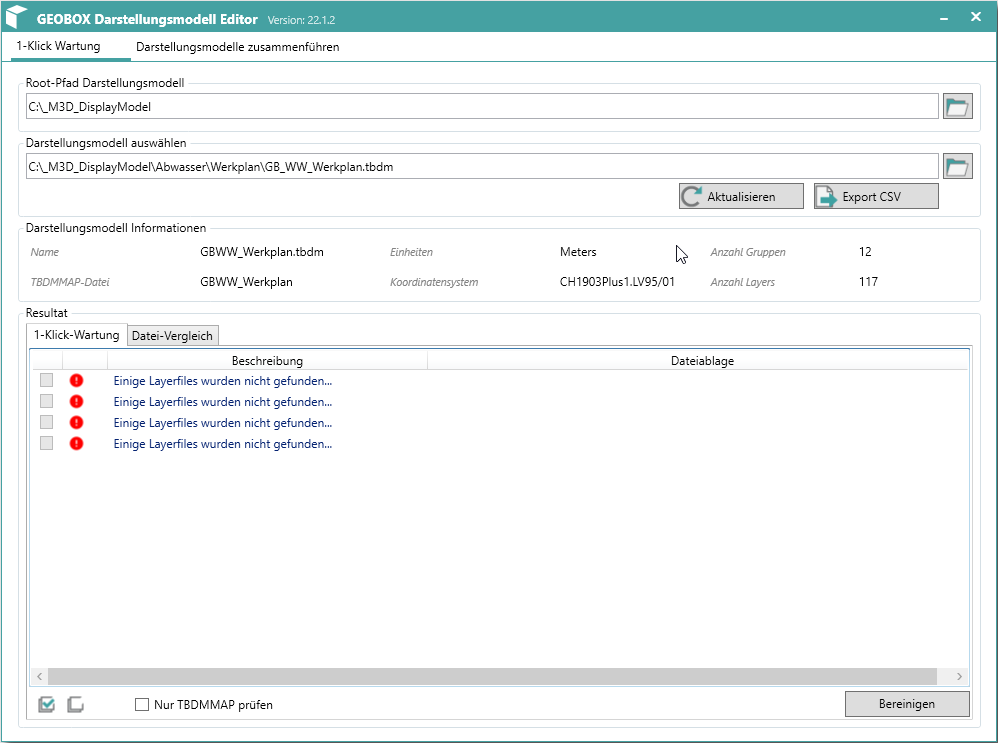
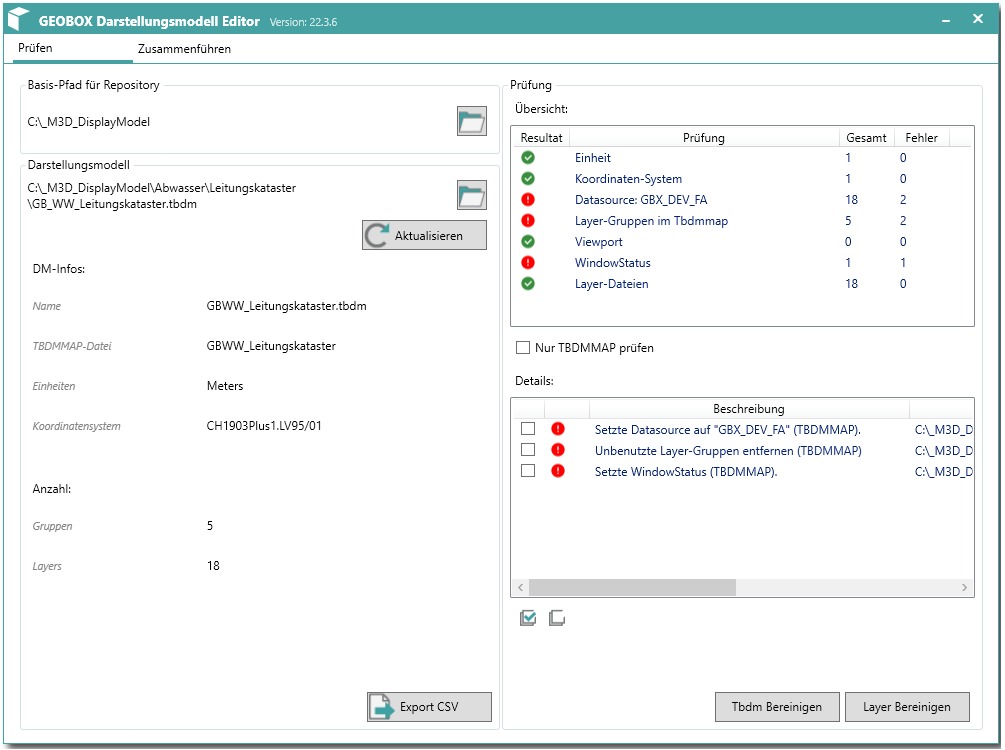
22.3 - Update pictures, Add EmptyStringToHyphen Converter, Fix Result from checks

diff --git a/GEOBOX.OSC.DisplayModelEditor/Views/OneClickView.xaml b/GEOBOX.OSC.DisplayModelEditor/Views/OneClickView.xaml
@@ -8,6 +8,7 @@
              mc:Ignorable="d" Background="White" Height="655" Width="965">
     <UserControl.Resources>
         <converters:BoolToImage x:Key="BoolToImage" />
+        <converters:EmptyStringToHyphen x:Key="EmptyStringToHyphen" />
     </UserControl.Resources>
     <Grid x:Name="ContentGrid">
         <Grid.ColumnDefinitions>
@@ -131,19 +132,19 @@
                             </Grid.RowDefinitions>
 
                             <Label x:Name="TbdmFileName" Grid.Row="0"
-                                   Content="{Binding TbdmFileName}" 
+                                   Content="{Binding TbdmFileName, Converter={StaticResource EmptyStringToHyphen}}" 
                                    VerticalContentAlignment="Center"/>
 
                             <Label x:Name="TbdmmapFileName" Grid.Row="1"
-                                   Content="{Binding TbdmmapFileName}"  
+                                   Content="{Binding TbdmmapFileName, Converter={StaticResource EmptyStringToHyphen}}"  
                                    VerticalContentAlignment="Center" />
 
                             <Label x:Name="UnitsValueLabel" Grid.Row="2"
-                                   Content="{Binding UnitsValue}" 
+                                   Content="{Binding UnitsValue, Converter={StaticResource EmptyStringToHyphen}}" 
                                    VerticalContentAlignment="Center"/>
 
                             <Label x:Name="CoordSysLabel" Grid.Row="3"
-                                   Content="{Binding CoordSys}"  
+                                   Content="{Binding CoordSys, Converter={StaticResource EmptyStringToHyphen}}"  
                                    VerticalContentAlignment="Center" />
 
                         </Grid>
@@ -181,11 +182,11 @@
                             </Grid.RowDefinitions>
 
                             <Label x:Name="CountGroupLabel" Grid.Row="0"
-                                   Content="{Binding CountGroup}" 
+                                   Content="{Binding CountGroup, Converter={StaticResource EmptyStringToHyphen}}" 
                                    VerticalContentAlignment="Center"/>
 
                             <Label x:Name="CountLayerLabel" Grid.Row="1"
-                                   Content="{Binding CountLayer}"
+                                   Content="{Binding CountLayer, Converter={StaticResource EmptyStringToHyphen}}"
                                    VerticalContentAlignment="Center"/>
                         </Grid>
                     </Grid>

diff --git a/GEOBOX.OSC.DisplayModelEditor/IO/TbdmmapReader.cs b/GEOBOX.OSC.DisplayModelEditor/IO/TbdmmapReader.cs
@@ -91,6 +91,7 @@ namespace GEOBOX.OSC.DisplayModelEditor.IO
         {
             var list = new List<TbdmmapItem>();
             int taskCounter = 0;
+            List<string> taskKeys = new List<string>();
 
             foreach (XmlNode xmlNode in xmlNodesMapLayers)
             {
@@ -117,6 +118,7 @@ namespace GEOBOX.OSC.DisplayModelEditor.IO
                     if (resourceCheck != null)
                     {
                         mapLayer.AddTask(resourceCheck);
+                        taskKeys.Add(resourceCheck.TaskKey);
                         taskCounter++;
                     }
                 }
@@ -128,11 +130,11 @@ namespace GEOBOX.OSC.DisplayModelEditor.IO
 
             if (taskCounter > 0)
             {
-                executedChecks?.Add(GetNewCheck($"Datasource: {Properties.Settings.Default.LayerDataSourceName}", false, list.Count, taskCounter));
+                executedChecks?.Add(GetNewCheck($"Datasource: {Properties.Settings.Default.LayerDataSourceName}", false, list.Count, taskCounter, taskKeys));
             }
             else
             {
-                executedChecks?.Add(GetNewCheck($"Datasource: {Properties.Settings.Default.LayerDataSourceName}", true, list.Count, taskCounter));
+                executedChecks?.Add(GetNewCheck($"Datasource: {Properties.Settings.Default.LayerDataSourceName}", true, list.Count, taskCounter, taskKeys));
             }
 
             return list;
@@ -159,7 +161,7 @@ namespace GEOBOX.OSC.DisplayModelEditor.IO
                 var layer = mapLayers.Find(l => l.Group.Equals(group.Name));
                 if(childGroup is null && layer is null)
                 {
-                    var task = new Task(filePath, string.Format(Resources.RemoveUnusedLayerGroup, group.Name), TaskType.RemoveUnusedGroup, TaskImage.ToDo);
+                    var task = new Task(filePath, Resources.RemoveUnusedLayerGroups, TaskType.RemoveUnusedGroup, TaskImage.ToDo);
                     mapLayerHandler.AddTask(task);
                     taskKeys.Add(task.TaskKey);
                     taskCounter++;
@@ -274,7 +276,7 @@ namespace GEOBOX.OSC.DisplayModelEditor.IO
                     }
                 }
 
-                isSaved = SaveTbdmapFile(filePath, xDoc);
+                isSaved = SaveTbdmmapFile(filePath, xDoc);
 
                 SetTaskStatus(isSaved, task);
                 xDoc = null;
@@ -306,7 +308,7 @@ namespace GEOBOX.OSC.DisplayModelEditor.IO
                     parent.RemoveChild(child);
                 }
 
-                isSaved = SaveTbdmapFile(filePath, doc);
+                isSaved = SaveTbdmmapFile(filePath, doc);
 
                 SetTaskStatus(isSaved, task);
                 doc = null;
@@ -336,7 +338,7 @@ namespace GEOBOX.OSC.DisplayModelEditor.IO
 
                 var result = new ResetDataSourceCorrectionTask().Apply(new CorrectionTaskContext(ReadTbdmmapFile(filePath))).DocumentAfterCorrection;
 
-                isSaved = SaveTbdmapFile(filePath, result);
+                isSaved = SaveTbdmmapFile(filePath, result);
 
                 SetTaskStatus(isSaved, task);
                 //doc = null;
@@ -369,7 +371,7 @@ namespace GEOBOX.OSC.DisplayModelEditor.IO
             }
         }
 
-        private bool SaveTbdmapFile(string filePath, XmlDocument xDoc)
+        private bool SaveTbdmmapFile(string filePath, XmlDocument xDoc)
         {
             try
             {
@@ -402,28 +404,41 @@ namespace GEOBOX.OSC.DisplayModelEditor.IO
                 foreach (var displayModelMapNode in displayModelMapNodes)
                 {
                     XmlNode parent = (XmlNode)displayModelMapNode;
-                    XmlNodeList childs = parent?.SelectNodes("./MapLayerGroup");
+                    XmlNodeList mapLayerGroups = parent?.SelectNodes("./MapLayerGroup");
                     
-                    foreach(var child in childs)
+                    foreach(var mapLayerGroup in mapLayerGroups)
                     {
-                        XmlNode childToRemove = null;
+                        XmlNode mapLayerGroupNode = (XmlNode)mapLayerGroup;
+                        bool childHasChildren = false;
+                        XmlNode mapLayerGroupToRemove = null;
+                        string name = mapLayerGroupNode["Name"].InnerText;
 
-                        XmlNode node = (XmlNode)child;
-                        string name = node["Name"].InnerText;
-
-                        if (task.Text.Contains(name))
+                        foreach (var child in mapLayerGroups)
                         {
-                            childToRemove = node;
+                            if (child.Equals(mapLayerGroup))
+                            {
+                                continue;
+                            }
+
+                            XmlNode childNode = (XmlNode)child;
+                            mapLayerGroupToRemove = mapLayerGroupNode;
+
+                            if (childNode["Name"].InnerText.Contains(name))
+                            {
+                                childHasChildren = true;
+                                mapLayerGroupToRemove = null;
+                                break;
+                            }
                         }
 
-                        if(childToRemove != null)
+                        if (!childHasChildren && mapLayerGroupToRemove != null)
                         {
-                            parent.RemoveChild(childToRemove);
-                        }                 
+                            parent?.RemoveChild(mapLayerGroupToRemove);
+                        }
                     }                 
                 }
 
-                isSaved = SaveTbdmapFile(filePath, doc);
+                isSaved = SaveTbdmmapFile(filePath, doc);
 
                 SetTaskStatus(isSaved, task);
                 doc = null;

diff --git a/GEOBOX.OSC.DisplayModelEditor/FileHandler/TbdmmapFileHandler.cs b/GEOBOX.OSC.DisplayModelEditor/FileHandler/TbdmmapFileHandler.cs
@@ -75,9 +75,10 @@ namespace GEOBOX.OSC.DisplayModelEditor.FileHandler
 
         internal void Run1ClickTask(string taskName, string filename)
         {
-            var tasks = GetAllTasks().ToList().FindAll(item => item.FileName.Equals(filename) && item.Tag.ToString().Equals(taskName));
+            var task = GetAllTasks().ToList()
+                .Find(item => item.FileName.Equals(filename) && item.Tag.ToString().Equals(taskName));
 
-            if (tasks == null || !tasks.Any())
+            if (task == null)
             {
                 return;
             }
@@ -85,38 +86,31 @@ namespace GEOBOX.OSC.DisplayModelEditor.FileHandler
             var tbdmmapReader = new TbdmmapReader();
             var layerReader = new LayerReader();
 
-            foreach(var task in tasks)
+            switch (taskName)
             {
-                if(!task.IsActive)
-                {
-                    continue;
-                }
-
-                switch (taskName)
-                {
-                    case "SetDatasource":
-                        tbdmmapReader.ResetDataSource(task, filename);
-                        break;
-                    case "SetWindowState":
-                        tbdmmapReader.SetWindowState(task, filename);
-                        break;
-                    case "RemoveViewPort":
-                        tbdmmapReader.DeleteViewPort(task, filename);
-                        break;
-                    case "RemoveUnusedGroup":
-                        tbdmmapReader.DeleteMapLayerGroup(task, filename);
-                        break;
-                    case "RemoveExtendedData":
-                        layerReader.DeleteExtendedData(task, filename);
-                        break;
-                    case "RemoveFilter":
-                        layerReader.DeleteFilterNodes(task, filename);
-                        break;
-                    case "SetAttributes":
-                        layerReader.ChangeLayerAttributes(task, filename);
-                        break;
-                }
+                case "SetDatasource":
+                    tbdmmapReader.ResetDataSource(task, filename);
+                    break;
+                case "SetWindowState":
+                    tbdmmapReader.SetWindowState(task, filename);
+                    break;
+                case "RemoveViewPort":
+                    tbdmmapReader.DeleteViewPort(task, filename);
+                    break;
+                case "RemoveUnusedGroup":
+                    tbdmmapReader.DeleteMapLayerGroup(task, filename);
+                    break;
+                case "RemoveExtendedData":
+                    layerReader.DeleteExtendedData(task, filename);
+                    break;
+                case "RemoveFilter":
+                    layerReader.DeleteFilterNodes(task, filename);
+                    break;
+                case "SetAttributes":
+                    layerReader.ChangeLayerAttributes(task, filename);
+                    break;
             }
+
         }
 
         internal void CreateCsv(string path)

diff --git a/GEOBOX.OSC.DisplayModelEditor/Converters/EmptyStringToHyphen.cs b/GEOBOX.OSC.DisplayModelEditor/Converters/EmptyStringToHyphen.cs
@@ -1,0 +1,32 @@
+using System.Windows.Data;
+
+namespace GEOBOX.OSC.DisplayModelEditor.Converters
+{
+    internal class EmptyStringToHyphen : IValueConverter
+    {
+        public object Convert(object value, System.Type targetType, object paramter, System.Globalization.CultureInfo culture)
+        {
+            try
+            {
+                if (string.IsNullOrEmpty((string)value))
+                {
+                    return "-";
+                }
+                else
+                {
+                    return (string)value;
+                }
+            }
+            catch
+            {
+                return "-";
+            }
+        }
+
+        public object ConvertBack(object value, System.Type targetType, object parameter, System.Globalization.CultureInfo culture)
+        {
+            // No ConvertBack necessary
+            return false;
+        }
+    }
+}

diff --git a/GEOBOX.OSC.DisplayModelEditor/Properties/Resources.Designer.cs b/GEOBOX.OSC.DisplayModelEditor/Properties/Resources.Designer.cs
@@ -115,11 +115,11 @@ namespace GEOBOX.OSC.DisplayModelEditor.Properties {
         }
         
         /// <summary>
-        ///   Looks up a localized string similar to Unbenutzte Gruppe &quot;{0}&quot; entfernen (TBDMMAP).
+        ///   Looks up a localized string similar to Unbenutzte Layer-Gruppen entfernen (TBDMMAP).
         /// </summary>
-        public static string RemoveUnusedLayerGroup {
+        public static string RemoveUnusedLayerGroups {
             get {
-                return ResourceManager.GetString("RemoveUnusedLayerGroup", resourceCulture);
+                return ResourceManager.GetString("RemoveUnusedLayerGroups", resourceCulture);
             }
         }
         

diff --git a/GEOBOX.OSC.DisplayModelEditor/DAL/Check.cs b/GEOBOX.OSC.DisplayModelEditor/DAL/Check.cs
@@ -71,8 +71,11 @@ namespace GEOBOX.OSC.DisplayModelEditor.DAL
 
         internal void RemoveTaskKey(string taskKey)
         {
-            if(TaskKeys.Remove(taskKey))
+            var foundTasksKeys = TaskKeys.FindAll(k => k.Contains(taskKey));
+
+            foreach (var foundTasksKey in foundTasksKeys)
             {
+                TaskKeys.Remove(foundTasksKey);
                 CountFaults = CountFaults - 1;
             }
 
@@ -80,6 +83,7 @@ namespace GEOBOX.OSC.DisplayModelEditor.DAL
             {
                 IsOk = true;
             }
+
         }
 
         public event PropertyChangedEventHandler PropertyChanged;

diff --git a/GEOBOX.OSC.DisplayModelEditor/ViewModels/OneClickViewModel.cs b/GEOBOX.OSC.DisplayModelEditor/ViewModels/OneClickViewModel.cs
@@ -1,6 +1,5 @@
 using GEOBOX.OSC.DisplayModelEditor.DAL;
 using GEOBOX.OSC.DisplayModelEditor.FileHandler;
-using GEOBOX.OSC.DisplayModelEditor.Settings;
 using System;
 using System.Collections.Generic;
 using System.Collections.ObjectModel;
@@ -14,7 +13,6 @@ namespace GEOBOX.OSC.DisplayModelEditor.ViewModels
 {
     public sealed class OneClickViewModel : INotifyPropertyChanged
     {
-        private SettingsController settingsController = new SettingsController();
         private TbdmFileHandler tbdmFileHandler;
         private List<MissingLayer> layersToDelete;
         private string sortColumnName = string.Empty;

diff --git a/GEOBOX.OSC.DisplayModelEditor/DAL/Task.cs b/GEOBOX.OSC.DisplayModelEditor/DAL/Task.cs
@@ -71,7 +71,7 @@ namespace GEOBOX.OSC.DisplayModelEditor.DAL
             this.FileName = filename;
         }
 
-        public string TaskKey => $"{this.Tag}_{this.FileName}_{this.Text}";
+        public string TaskKey => $"{this.Tag}_{this.FileName}";
 
         private int GetImageIndex(TaskImage ti)
         {

diff --git a/GEOBOX.OSC.DisplayModelEditor/Settings/SettingsController.cs b/GEOBOX.OSC.DisplayModelEditor/Settings/SettingsController.cs
@@ -1,5 +1,4 @@
 using System;
-using System.Diagnostics;
 
 namespace GEOBOX.OSC.DisplayModelEditor.Settings
 {
